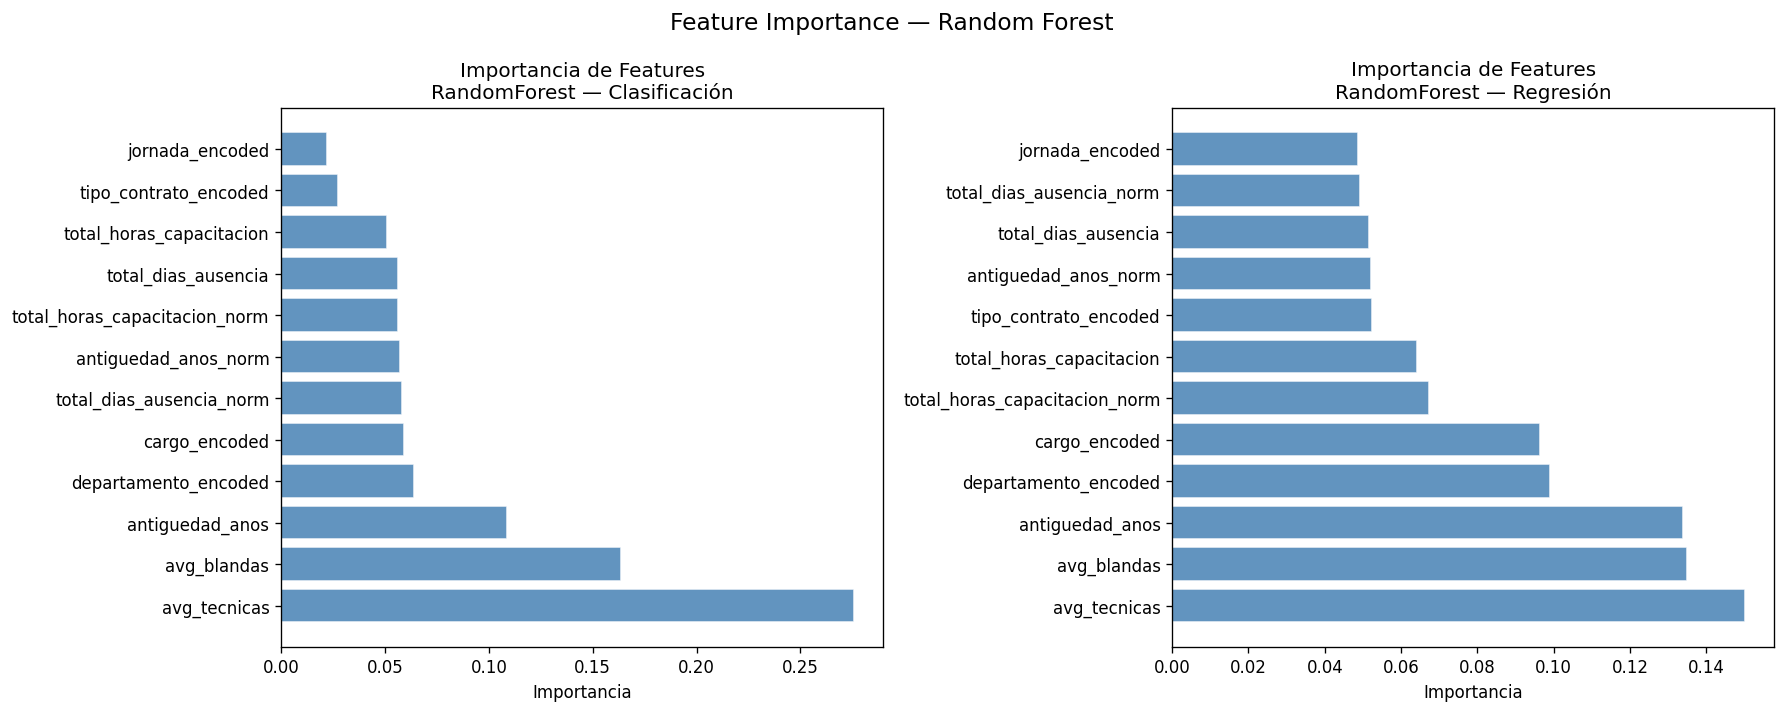
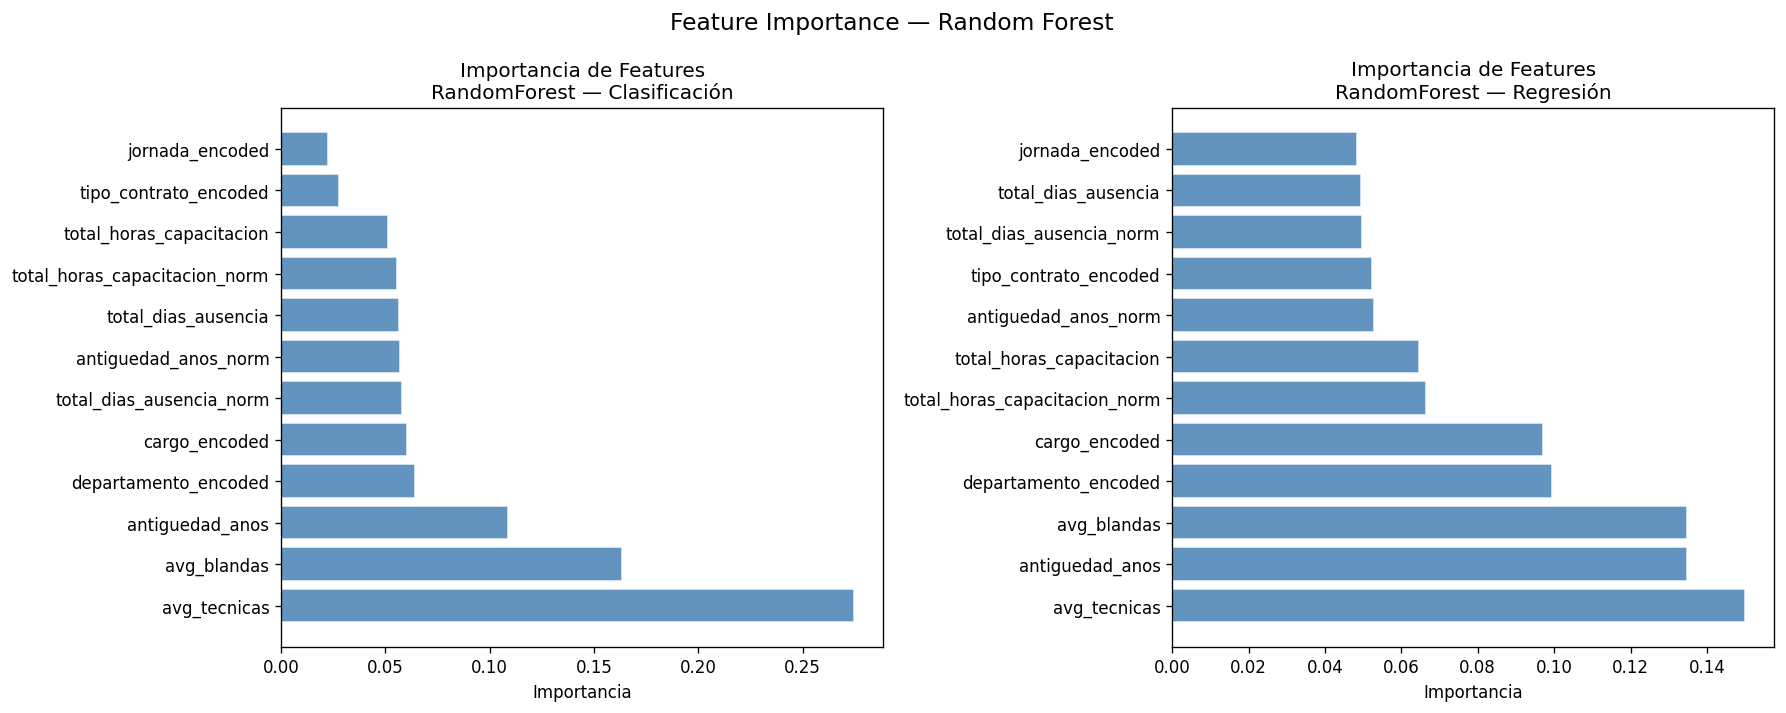
feat: XGBoost + feature engineering + class_weight → F1 0.8148

diff --git a/src/leandrocienciasdedatos/ml/model_training.py b/src/leandrocienciasdedatos/ml/model_training.py
@@ -11,8 +11,10 @@ from sklearn.tree import DecisionTreeClassifier, DecisionTreeRegressor
 from sklearn.ensemble import RandomForestClassifier, RandomForestRegressor, GradientBoostingClassifier, GradientBoostingRegressor
 from sklearn.svm import SVC
 from sklearn.neighbors import KNeighborsClassifier
+from xgboost import XGBClassifier
 
 logger = logging.getLogger(__name__)
+
 
 
 def get_modelos_clasificacion() -> dict:
@@ -20,31 +22,37 @@ def get_modelos_clasificacion() -> dict:
     Retorna diccionario con 5 pipelines de clasificación.
     Cada pipeline incluye StandardScaler + modelo.
     random_state=42 en todos los modelos que lo soporten.
+    class_weight='balanced' para compensar desbalance de clases.
     """
     modelos = {
         "LogisticRegression": Pipeline([
             ("scaler", StandardScaler()),
-            ("model", LogisticRegression(random_state=42, max_iter=1000))
+            ("model", LogisticRegression(random_state=42, max_iter=1000, class_weight="balanced"))
         ]),
         "DecisionTree": Pipeline([
             ("scaler", StandardScaler()),
-            ("model", DecisionTreeClassifier(random_state=42))
+            ("model", DecisionTreeClassifier(random_state=42, class_weight="balanced"))
         ]),
         "RandomForest": Pipeline([
             ("scaler", StandardScaler()),
-            ("model", RandomForestClassifier(random_state=42, n_estimators=100))
+            ("model", RandomForestClassifier(random_state=42, n_estimators=100, class_weight="balanced"))
         ]),
         "GradientBoosting": Pipeline([
             ("scaler", StandardScaler()),
-            ("model", GradientBoostingClassifier(random_state=42))
+            ("model", GradientBoostingClassifier(random_state=42, n_estimators=100, learning_rate=0.1))
         ]),
         "SVM": Pipeline([
             ("scaler", StandardScaler()),
-            ("model", SVC(random_state=42, probability=True))
+            ("model", SVC(random_state=42, probability=True, class_weight="balanced"))
+        ]),
+        "XGBoost": Pipeline([
+            ("scaler", StandardScaler()),
+            ("model", XGBClassifier(random_state=42, n_estimators=100, eval_metric="logloss", verbosity=0))
         ]),
     }
     logger.info(f"Modelos de clasificación definidos: {list(modelos.keys())}")
     return modelos
+
 
 
 def get_modelos_regresion() -> dict:

diff --git a/src/leandrocienciasdedatos/ml/data_preprocessing.py b/src/leandrocienciasdedatos/ml/data_preprocessing.py
@@ -11,13 +11,20 @@ logger = logging.getLogger(__name__)
 
 # ── Columnas definidas ────────────────────────────────────────────────────────
 FEATURES_CLASIFICACION = [
+    "avg_tecnicas",
+    "avg_blandas",
     "total_dias_ausencia",
     "total_horas_capacitacion",
     "antiguedad_anos",
+    "total_dias_ausencia_norm",
+    "total_horas_capacitacion_norm",
+    "antiguedad_anos_norm",
     "departamento_encoded",
     "cargo_encoded",
     "tipo_contrato_encoded",
     "jornada_encoded",
+    "ratio_cap_antiguedad",
+    "tasa_ausencia",
 ]
 
 FEATURES_REGRESION = [
@@ -26,10 +33,15 @@ FEATURES_REGRESION = [
     "total_dias_ausencia",
     "total_horas_capacitacion",
     "antiguedad_anos",
+    "total_dias_ausencia_norm",
+    "total_horas_capacitacion_norm",
+    "antiguedad_anos_norm",
     "departamento_encoded",
     "cargo_encoded",
     "tipo_contrato_encoded",
     "jornada_encoded",
+    "ratio_cap_antiguedad",
+    "tasa_ausencia",
 ]
 
 TARGET_CLASIFICACION = "alto_desempeno"
@@ -49,11 +61,13 @@ def optimizar_tipos(df: pd.DataFrame) -> pd.DataFrame:
     return df
 
 
+
 def preparar_dataset(df: pd.DataFrame) -> pd.DataFrame:
     """
     Prepara el dataset_final_integrado para Machine Learning.
     - Rellena con 0 ausencias y capacitaciones faltantes (lógica de negocio)
     - Usa KNNImputer para métricas de desempeño
+    - Crea features engineered: ratio_cap_antiguedad, tasa_ausencia
     - Crea el target de clasificación
     """
     from sklearn.impute import KNNImputer
@@ -97,7 +111,16 @@ def preparar_dataset(df: pd.DataFrame) -> pd.DataFrame:
         df["score_global"] > mediana
     ).astype(int)
 
-    # Paso 4: Optimizar memoria
+    # Paso 4: Feature engineering — variables informativas adicionales
+    df["ratio_cap_antiguedad"] = (
+        df["total_horas_capacitacion"] / (df["antiguedad_anos"] + 1)
+    ).round(3)
+    df["tasa_ausencia"] = (
+        df["total_dias_ausencia"] / (df["antiguedad_anos"] + 1)
+    ).round(3)
+    logger.info("Features engineered: ratio_cap_antiguedad, tasa_ausencia")
+
+    # Paso 5: Optimizar memoria
     df = optimizar_tipos(df)
 
     logger.info(

diff --git a/src/leandrocienciasdedatos/ml/hyperparameter_tuning.py b/src/leandrocienciasdedatos/ml/hyperparameter_tuning.py
@@ -12,18 +12,28 @@ def get_param_grid_clasificacion() -> dict:
     """Grillas de hiperparámetros para modelos de clasificación."""
     return {
         "RandomForest": {
-            "model__n_estimators": [50, 100, 200],
-            "model__max_depth": [None, 5, 10],
-            "model__min_samples_split": [2, 5],
+            "model__n_estimators": [100, 200, 300],
+            "model__max_depth": [None, 3, 5, 7],
+            "model__min_samples_split": [2, 5, 10],
+            "model__max_features": ["sqrt", "log2"],
         },
         "GradientBoosting": {
-            "model__n_estimators": [50, 100],
-            "model__learning_rate": [0.05, 0.1, 0.2],
-            "model__max_depth": [3, 5],
+            "model__n_estimators": [100, 200, 300],
+            "model__learning_rate": [0.01, 0.05, 0.1, 0.2],
+            "model__max_depth": [3, 4, 5],
+            "model__subsample": [0.8, 1.0],
         },
         "LogisticRegression": {
-            "model__C": [0.1, 1.0, 10.0],
-            "model__solver": ["lbfgs", "liblinear"],
+            "model__C": [0.01, 0.1, 0.5, 1.0, 5.0, 10.0, 50.0],
+            "model__solver": ["lbfgs", "liblinear", "saga"],
+        },
+
+        "XGBoost": {
+            "model__n_estimators": [100, 200, 300],
+            "model__max_depth": [3, 4, 5, 6],
+            "model__learning_rate": [0.01, 0.05, 0.1, 0.2],
+            "model__subsample": [0.8, 1.0],
+            "model__colsample_bytree": [0.8, 1.0],
         },
     }
 
